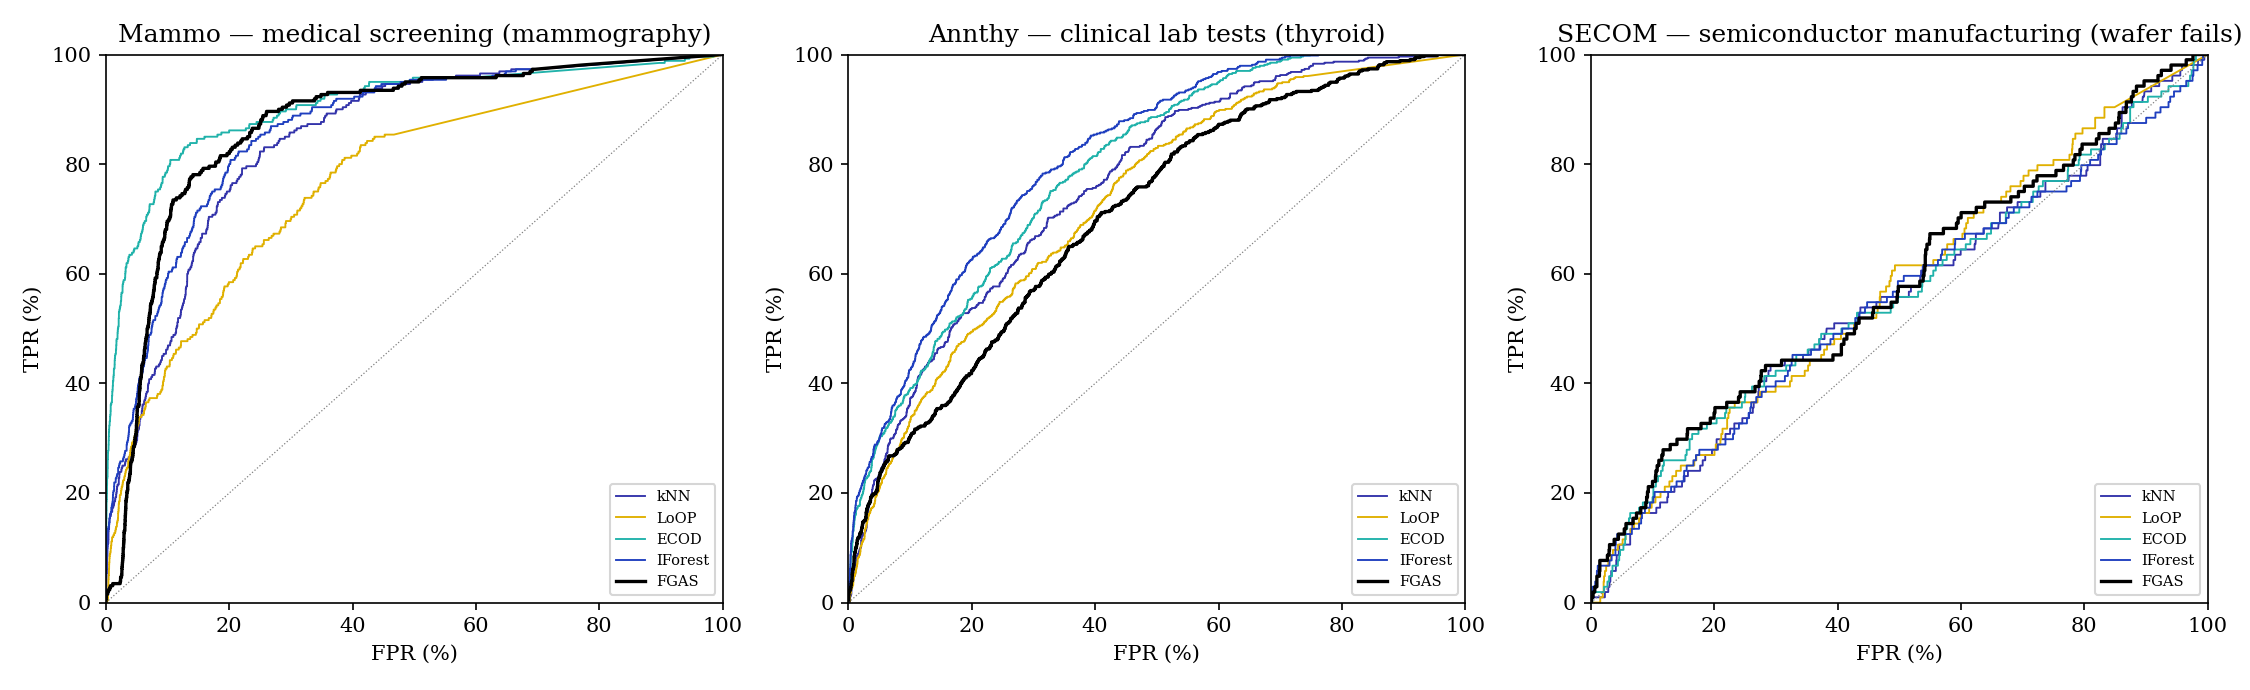
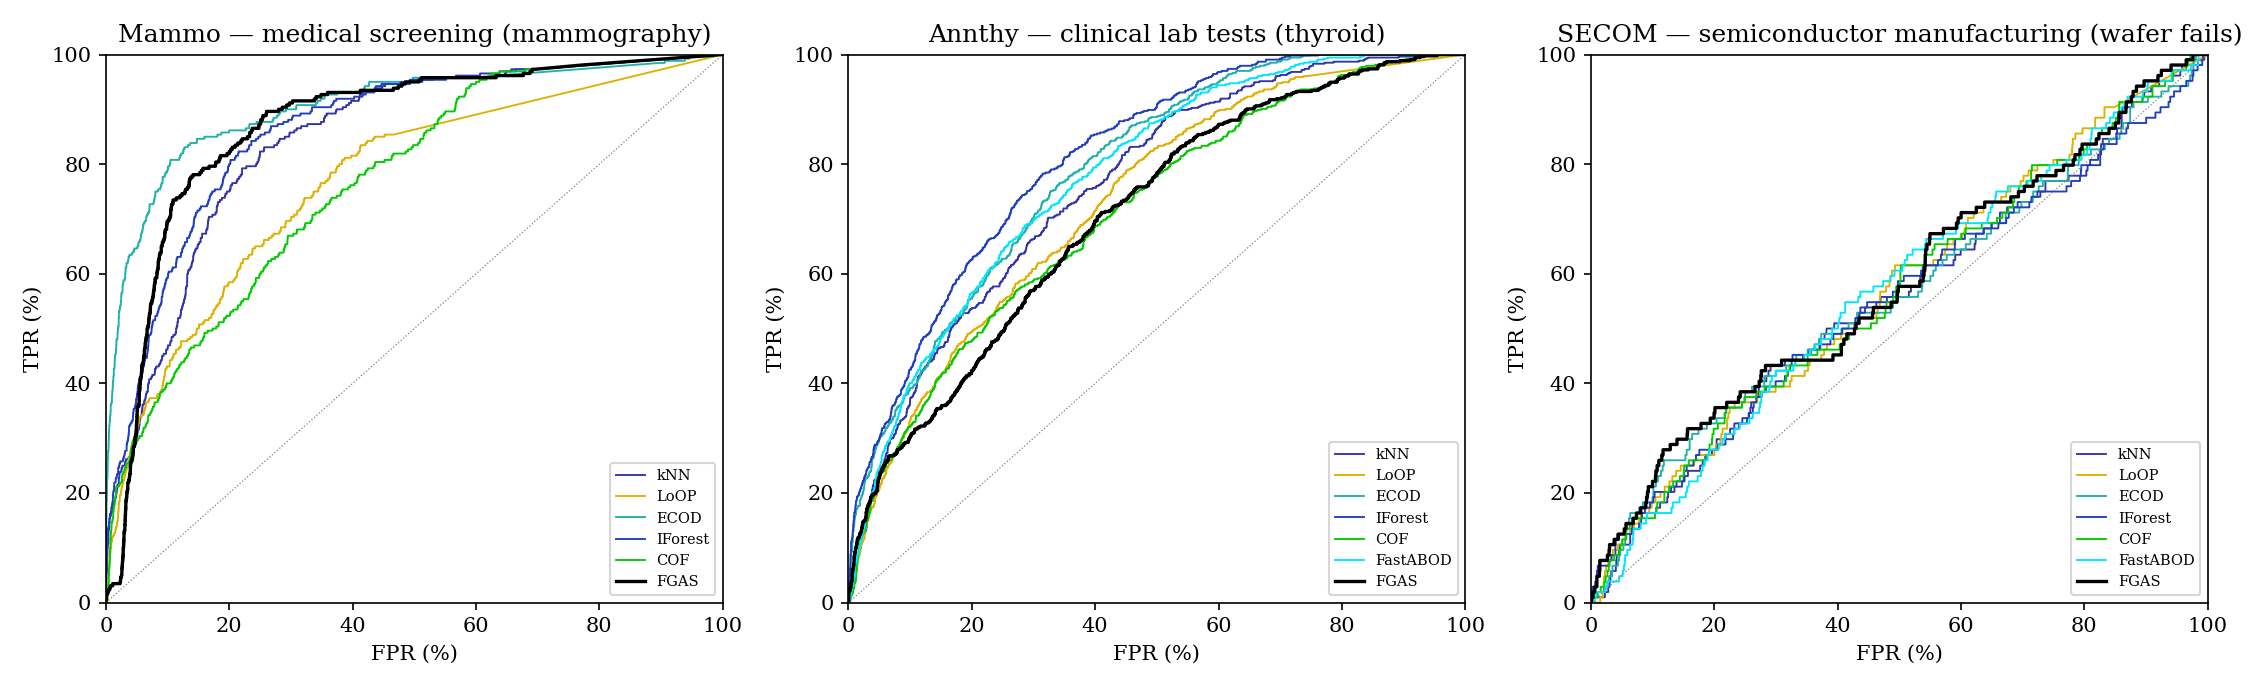
Extension: complete report with COF/FastABOD baselines
FGAS (abs, best sigma) vs 6 baselines: Mammo 0.872 (2nd of 7, ECOD 0.906),
Annthy 0.707 (7th of 7, IForest 0.827), SECOM 0.578 (1st, all methods near chance).
COF/FastABOD run took 36.6 min on 6 processes; FastABOD NaN on Mammo (duplicates).
Adds results/EXTENSIONS.md narrative; 'failed fits' label fix in make_ext_report.py.

diff --git a/scripts/make_ext_report.py b/scripts/make_ext_report.py
@@ -56,7 +56,7 @@ def main() -> int:
             rows.append(dict(dataset=ds, method=m, auc=per_seed.mean(),
                              std=per_seed.std() if len(per_seed) > 1 else np.nan,
                              setting=(f"k={int(k)}" if pd.notna(k) else ("5 seeds" if m == "IForest" else "-"))
-                             + (f", {int(g.auc.isna().sum())} NaN fits" if g.auc.isna().any() else "")))
+                             + (f", {int(g.auc.isna().sum())} failed fits" if g.auc.isna().any() else "")))
     t = pd.DataFrame(rows)
     t["rank"] = t.groupby("dataset").auc.rank(ascending=False, method="min")
     out = ROOT / "results"

diff --git a/results/EXTENSIONS.md b/results/EXTENSIONS.md
@@ -1,0 +1,45 @@
+# FGAS on real-world application datasets (extension, not in the paper)
+
+**Protocol:** the same as the paper's Table 2 (best AUC over the paper's grids, so oracle tuning using labels).
+- FGAS: σ ∈ {0, 0.05, …, 1}, d = 0.1, GPU float64.
+- kNN / COF / FastABOD / LoOP: k = 1…60.
+- IForest: mean ± std over 5 seeds.
+- Preprocessing: per-attribute min-max scaling; SECOM's 4.5% missing values filled with the column mode (the paper's method).
+- "σ = 0.8 fixed" is a label-free setting: the best single σ across the paper's 15 datasets.
+
+**Data:**
+
+| Dataset | Application | n × m | Anomalies | Source |
+|---|---|---|---|---|
+| Mammo | mammography screening | 11,183 × 6 | 260 | ADBench `23_mammography.npz` @3dac822 |
+| Annthy | thyroid lab tests | 7,200 × 6 | 534 | ADBench `2_annthyroid.npz` @3dac822 |
+| SECOM | semiconductor wafer fails | 1,567 × 590 | 104 | UCI SECOM |
+
+Checksums are in `data/checksums_ext.json`.
+
+**Runs:**
+- `20261106-174713_ext_fgas`: 18 s / 8 s / 9 s per FGD variant on the GPU; peak GPU memory 2.3 GB on Mammo.
+- `20261106-174839_ext_baselines`: kNN, LoOP, ECOD, IForest; 80 s.
+- `20261106-175246_ext_baselines`: COF, FastABOD; 36.6 min on 6 CPU processes.
+
+## Results (AUC; rank among all 10 rows per dataset)
+
+See `EXTENSIONS_table.md` (generated by `scripts/make_ext_report.py`). Ranking FGAS (abs, best σ) against the 6 baselines only (7 methods):
+
+| Dataset | FGAS (abs) | Best baseline | FGAS rank of 7 |
+|---|---|---|---|
+| Mammo | 0.872 | ECOD 0.906 | **2** |
+| Annthy | 0.707 | IForest 0.827 ± 0.015 | **7** (COF 0.712 just above) |
+| SECOM | 0.578 | LoOP 0.569 | **1**, but every method is ≤ 0.585 (near chance) |
+
+![ROC](ext_roc.png)
+![sigma](ext_sigma.png)
+
+## Takeaways
+
+1. **FGAS doesn't carry its paper-level performance over to these datasets.** It averages 0.934 on the paper's 15 datasets, but 0.872 / 0.707 / 0.578 here. It's competitive on mammography (2nd) and last on annthyroid.
+2. **Annthyroid shows FGAS's main limitation.** Thyroid disease shows up as *combinations* of hormone levels, and FGAS scores each attribute's typicality separately. IForest and ECOD, which use the full distributions, do much better (0.83 / 0.79).
+3. **Mammography:** the 6 heavy-tailed features squash min-max-scaled values near 0, and the best σ is low (0.25). FGAS's top-ranked ~3% of samples are almost all normal (flat start of the ROC curve). It catches up later, but ECOD is far better at low false-positive rates, which matters most for screening.
+4. **SECOM is hard for every unsupervised method** (all 0.55–0.59). Wafer fails aren't outliers in the 590-dimensional sensor space. FGAS is nominally first, but the differences are within noise (IForest's seed std is 0.016).
+5. **Without labels, FGAS drops further:** σ = 0.8 fixed gives 0.844 / 0.678 / 0.521, and the paper's squared Eq. 7 is worse than abs on Mammo and Annthy.
+6. **FastABOD (pyod) fails on Mammo:** NaN scores for every k, caused by 3,335 duplicate rows. COF fails at k = 1 everywhere (a library limit).

diff --git a/results/EXTENSIONS_table.md b/results/EXTENSIONS_table.md
@@ -1,10 +1,12 @@
 | Method | Mammo (medical screening (mammography)) | Annthy (clinical lab tests (thyroid)) | SECOM (semiconductor manufacturing (wafer fails)) |
 |---|---|---|---|
-| FGAS (abs, best σ) | 0.872 (#2; σ=0.25) | 0.707 (#5; σ=0.15) | 0.578 (#2; σ=0.95) |
-| FGAS (abs, σ=0.8 fixed) | 0.844 (#6; no labels) | 0.678 (#6; no labels) | 0.521 (#8; no labels) |
-| FGAS (squared, best σ) | 0.860 (#3; σ=0.20) | 0.635 (#7; σ=0.95) | **0.585** (#1; σ=0.95) |
-| FGAS (squared, σ=0.8 fixed) | 0.837 (#7; no labels) | 0.600 (#8; no labels) | 0.532 (#7; no labels) |
-| ECOD | **0.906** (#1; -) | 0.789 (#2; -) | 0.559 (#4; -) |
-| IForest | 0.859 ± 0.004 (#4; 5 seeds) | **0.827 ± 0.015** (#1; 5 seeds) | 0.551 ± 0.016 (#6; 5 seeds) |
-| LoOP | 0.770 (#8; k=60) | 0.731 (#4; k=59) | 0.569 (#3; k=4) |
-| kNN | 0.846 (#5; k=21) | 0.761 (#3; k=1) | 0.553 (#5; k=2) |
+| FGAS (abs, best σ) | 0.872 (#2; σ=0.25) | 0.707 (#7; σ=0.15) | 0.578 (#2; σ=0.95) |
+| FGAS (abs, σ=0.8 fixed) | 0.844 (#6; no labels) | 0.678 (#8; no labels) | 0.521 (#10; no labels) |
+| FGAS (squared, best σ) | 0.860 (#3; σ=0.20) | 0.635 (#9; σ=0.95) | **0.585** (#1; σ=0.95) |
+| FGAS (squared, σ=0.8 fixed) | 0.837 (#7; no labels) | 0.600 (#10; no labels) | 0.532 (#9; no labels) |
+| COF | 0.768 (#9; k=60, 1 failed fits) | 0.712 (#6; k=60, 1 failed fits) | 0.563 (#5; k=4, 1 failed fits) |
+| ECOD | **0.906** (#1; -) | 0.789 (#2; -) | 0.559 (#6; -) |
+| FastABOD | n/a | 0.778 (#3; k=13, 11 failed fits) | 0.566 (#4; k=4, 2 failed fits) |
+| IForest | 0.859 ± 0.004 (#4; 5 seeds) | **0.827 ± 0.015** (#1; 5 seeds) | 0.551 ± 0.016 (#8; 5 seeds) |
+| LoOP | 0.770 (#8; k=60) | 0.731 (#5; k=59) | 0.569 (#3; k=4) |
+| kNN | 0.846 (#5; k=21) | 0.761 (#4; k=1) | 0.553 (#7; k=2) |
